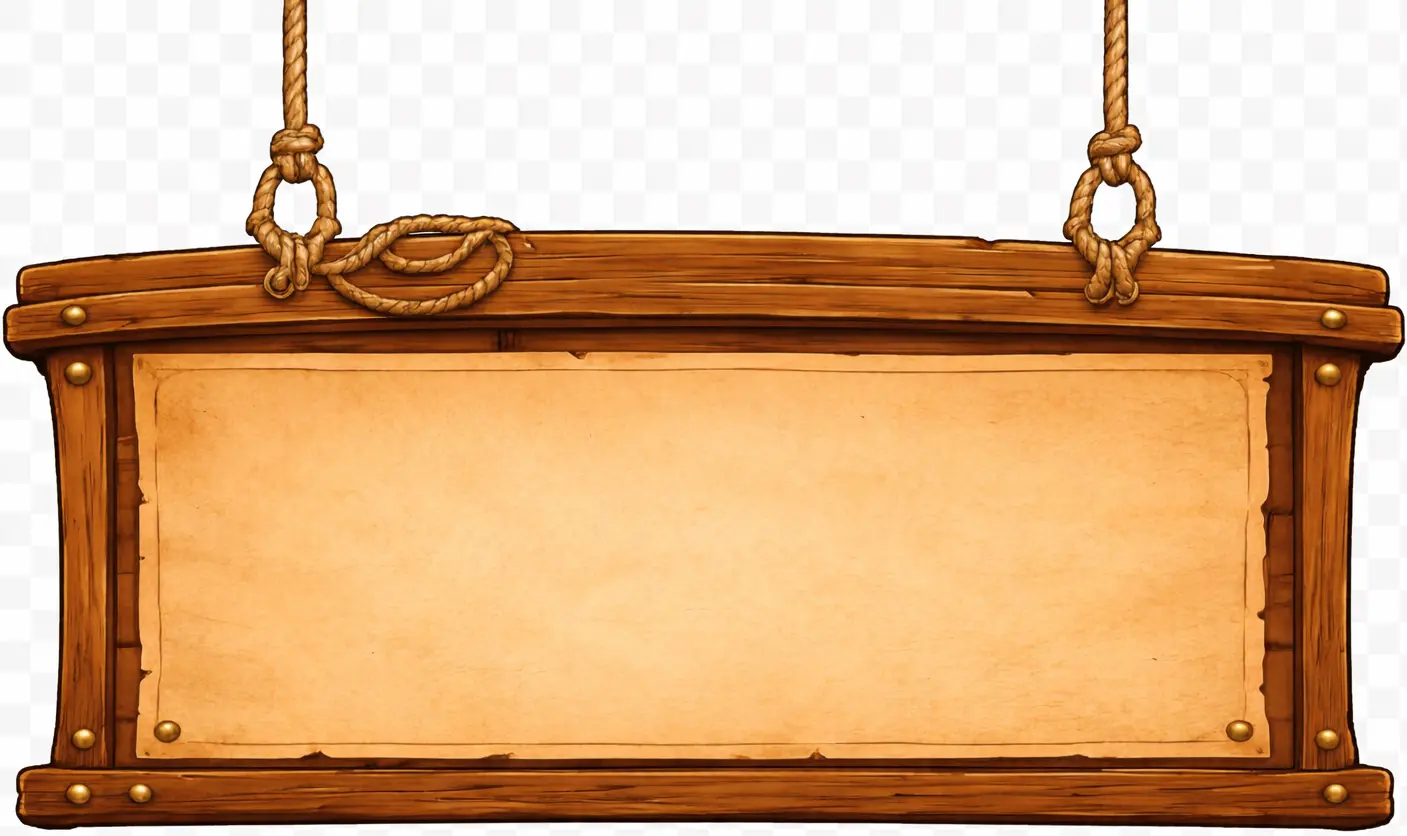
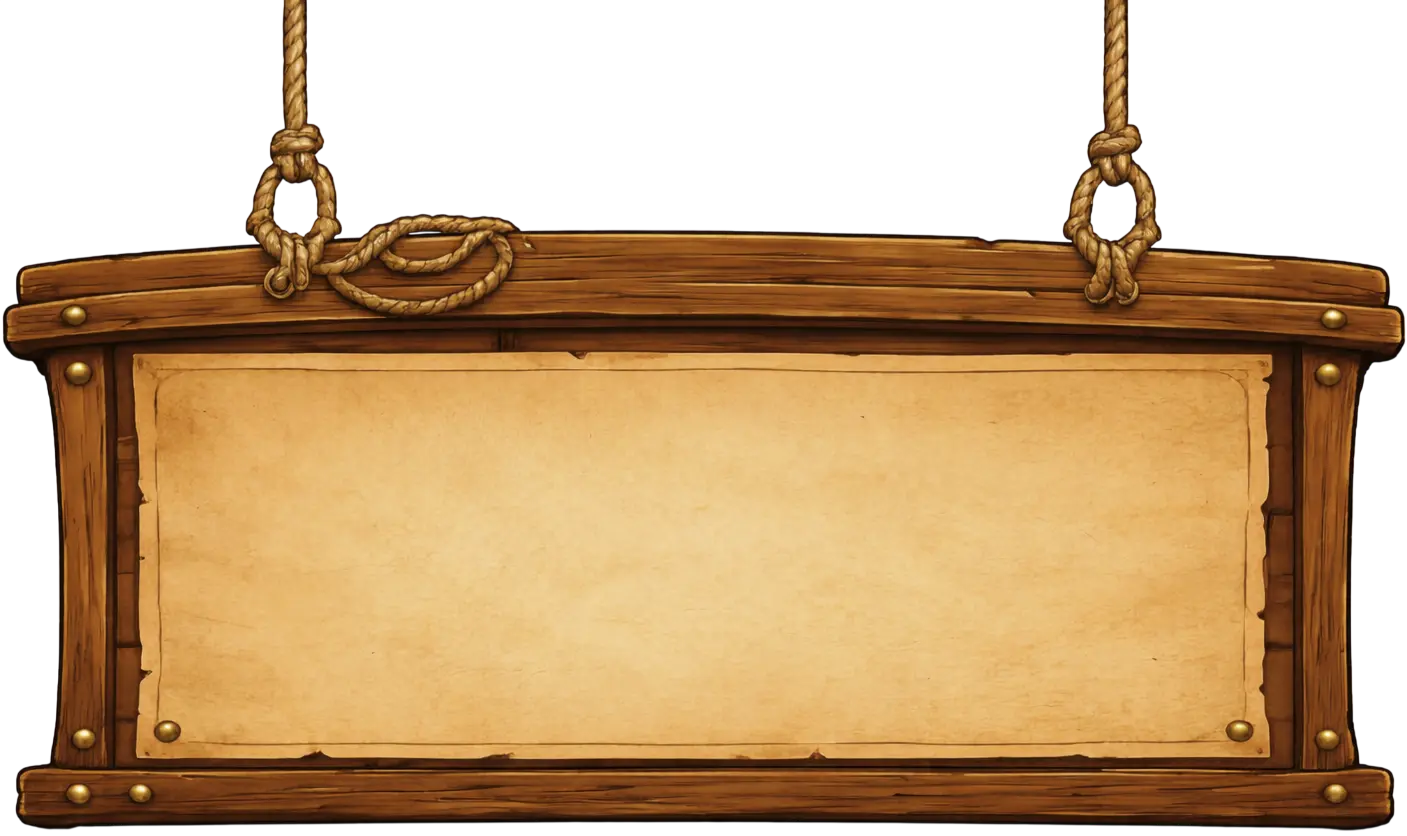
toast message style

Changed region(s): [[0.0, 0.0, 1.0, 0.9952]]

diff --git a/game-client/app/room/[roomId]/game-room.tsx b/game-client/app/room/[roomId]/game-room.tsx
@@ -1,10 +1,14 @@
 import { useEffect, useRef, useState } from "react";
+import { AnimatePresence } from "motion/react";
 
 import { GameRoomContext } from "@/hooks/useGameRoom";
 import { GameError } from "@/hooks/useRoomConnection";
 import { GameProvider } from "@/components/game-context";
 import Board from "@/components/board";
 import ResultsScreen from "@/components/results-screen";
+import Toast from "@/components/toast";
+
+type ToastEntry = { id: string; message: string };
 
 type GameRoomProps = {
   roomId: string;
@@ -30,8 +34,17 @@ export default function GameRoom({
   clearGameError,
   isConnected,
 }: GameRoomProps) {
-  const [showReconnected, setShowReconnected] = useState(false);
+  const [transientToasts, setTransientToasts] = useState<ToastEntry[]>([]);
+  const toasts: ToastEntry[] = [
+    ...(!isConnected
+      ? [{ id: "connection-lost", message: "Connection lost. Reconnecting…" }]
+      : []),
+    ...transientToasts,
+  ];
+
   const prevConnectedRef = useRef(isConnected);
+  const handledErrorRef = useRef<GameError | null>(null);
+  const errorTimerRef = useRef<ReturnType<typeof setTimeout> | null>(null);
 
   useEffect(() => {
     if (gameState.phase !== "turnTrade") return;
@@ -41,23 +54,52 @@ export default function GameRoom({
   }, [gameState.phase]);
 
   useEffect(() => {
-    if (!gameError) return;
-    const timer = setTimeout(clearGameError, 3000);
-    return () => clearTimeout(timer);
-  }, [gameError, clearGameError]);
-
-  useEffect(() => {
-    if (!prevConnectedRef.current && isConnected) {
+    if (isConnected && !prevConnectedRef.current) {
+      const reconnectedId = `reconnected-${Date.now()}`;
+      const showTimer = setTimeout(() => {
+        setTransientToasts((prev) => [
+          ...prev,
+          { id: reconnectedId, message: "Reconnected!" },
+        ]);
+      }, 0);
+      const hideTimer = setTimeout(() => {
+        setTransientToasts((prev) =>
+          prev[prev.length - 1]?.id === reconnectedId
+            ? []
+            : prev.filter((t) => t.id !== reconnectedId),
+        );
+      }, 2000);
       prevConnectedRef.current = true;
-      const showTimer = setTimeout(() => setShowReconnected(true), 0);
-      const hideTimer = setTimeout(() => setShowReconnected(false), 2000);
       return () => {
         clearTimeout(showTimer);
         clearTimeout(hideTimer);
       };
     }
     prevConnectedRef.current = isConnected;
-  }, [isConnected]);
+
+    if (gameError && gameError !== handledErrorRef.current) {
+      handledErrorRef.current = gameError;
+      if (errorTimerRef.current) clearTimeout(errorTimerRef.current);
+      const errorId = `error-${Date.now()}`;
+      setTimeout(() => {
+        setTransientToasts((prev) => [
+          ...prev,
+          { id: errorId, message: gameError.message },
+        ]);
+      }, 0);
+      errorTimerRef.current = setTimeout(() => {
+        setTransientToasts((prev) =>
+          prev[prev.length - 1]?.id === errorId
+            ? []
+            : prev.filter((t) => t.id !== errorId),
+        );
+        clearGameError();
+        errorTimerRef.current = null;
+      }, 3000);
+    } else if (!gameError) {
+      handledErrorRef.current = null;
+    }
+  }, [isConnected, gameError, clearGameError]);
 
   return (
     <GameProvider
@@ -74,33 +116,20 @@ export default function GameRoom({
       onCounterOffer={counterOffer}
     >
       <div className="relative flex flex-col h-full w-full overflow-hidden">
-        {!isConnected && (
-          <div
-            className="absolute top-10 left-1/2 -translate-x-1/2 z-50 
-						rounded-md bg-red-600 px-4 py-2 
-						text-sm font-light text-white"
-          >
-            Connection lost. Reconnecting…
-          </div>
-        )}
-        {showReconnected && (
-          <div
-            className="absolute top-10 left-1/2 -translate-x-1/2 z-50 
-						rounded-md bg-green-600 px-4 py-2 
-						text-sm text-white"
-          >
-            Reconnected
-          </div>
-        )}
-        {gameError && (
-          <div
-            className="absolute top-10 left-1/2 -translate-x-1/2 z-50
-						rounded-md bg-red-600 px-4 py-2 
-						text-sm text-white"
-          >
-            {gameError.message}
-          </div>
-        )}
+        <div
+          className="fixed left-1/2 -translate-x-1/2 z-50 w-64 pointer-events-none"
+          style={{ top: -10, aspectRatio: "5 / 3" }}
+        >
+          <AnimatePresence>
+            {toasts.map((toast, i) => (
+              <Toast
+                key={toast.id}
+                message={toast.message}
+                depth={toasts.length - 1 - i}
+              />
+            ))}
+          </AnimatePresence>
+        </div>
         <div className="relative flex-1 min-h-0">
           {!isConnected && (
             <div className="absolute inset-0 z-40 pointer-events-auto" />

diff --git a/game-client/components/toast.tsx b/game-client/components/toast.tsx
@@ -1,0 +1,46 @@
+"use client";
+
+import { m } from "motion/react";
+
+type ToastProps = {
+  message: string;
+  depth: number;
+};
+
+export default function Toast({ message, depth }: ToastProps) {
+  return (
+    <m.div
+      initial={{ y: -160, opacity: 0 }}
+      animate={{
+        y: depth * 6,
+        scale: 1 - depth * 0.04,
+        opacity: 1 - depth * 0.08,
+        rotate: depth === 0 ? [0, -3, 2.5, -2, 1.5, -0.8, 0] : 0,
+      }}
+      exit={{ y: -160, opacity: 0 }}
+      transition={{
+        y: { type: "spring", stiffness: 280, damping: 22 },
+        scale: { type: "spring", stiffness: 280, damping: 22 },
+        opacity: { duration: 0.2 },
+        rotate: { duration: 0.65, ease: "easeOut", delay: 0.08 },
+      }}
+      style={{ zIndex: 10 - depth }}
+      className="absolute inset-0"
+    >
+      <img
+        src="/toastboard.webp"
+        alt=""
+        draggable={false}
+        className="absolute inset-0 w-full h-full object-fill select-none pointer-events-none"
+      />
+      <div
+        className="absolute flex items-center justify-center"
+        style={{ top: "43%", left: "11%", right: "11%", bottom: "10%" }}
+      >
+        <span className="text-sm font-semibold text-[#5c3a1e] text-center leading-snug">
+          {message}
+        </span>
+      </div>
+    </m.div>
+  );
+}

diff --git a/game-client/components/player.tsx b/game-client/components/player.tsx
@@ -257,10 +257,6 @@ function ActivePlayer({
               }}
             />
           )}
-          <span
-            className="absolute bottom-1 right-1 block w-3 h-3 rounded-full border-2 border-black"
-            style={{ background: playerConnected ? "#4ade80" : "#ef4444" }}
-          />
         </div>
 
         {dragBlockMessage && (